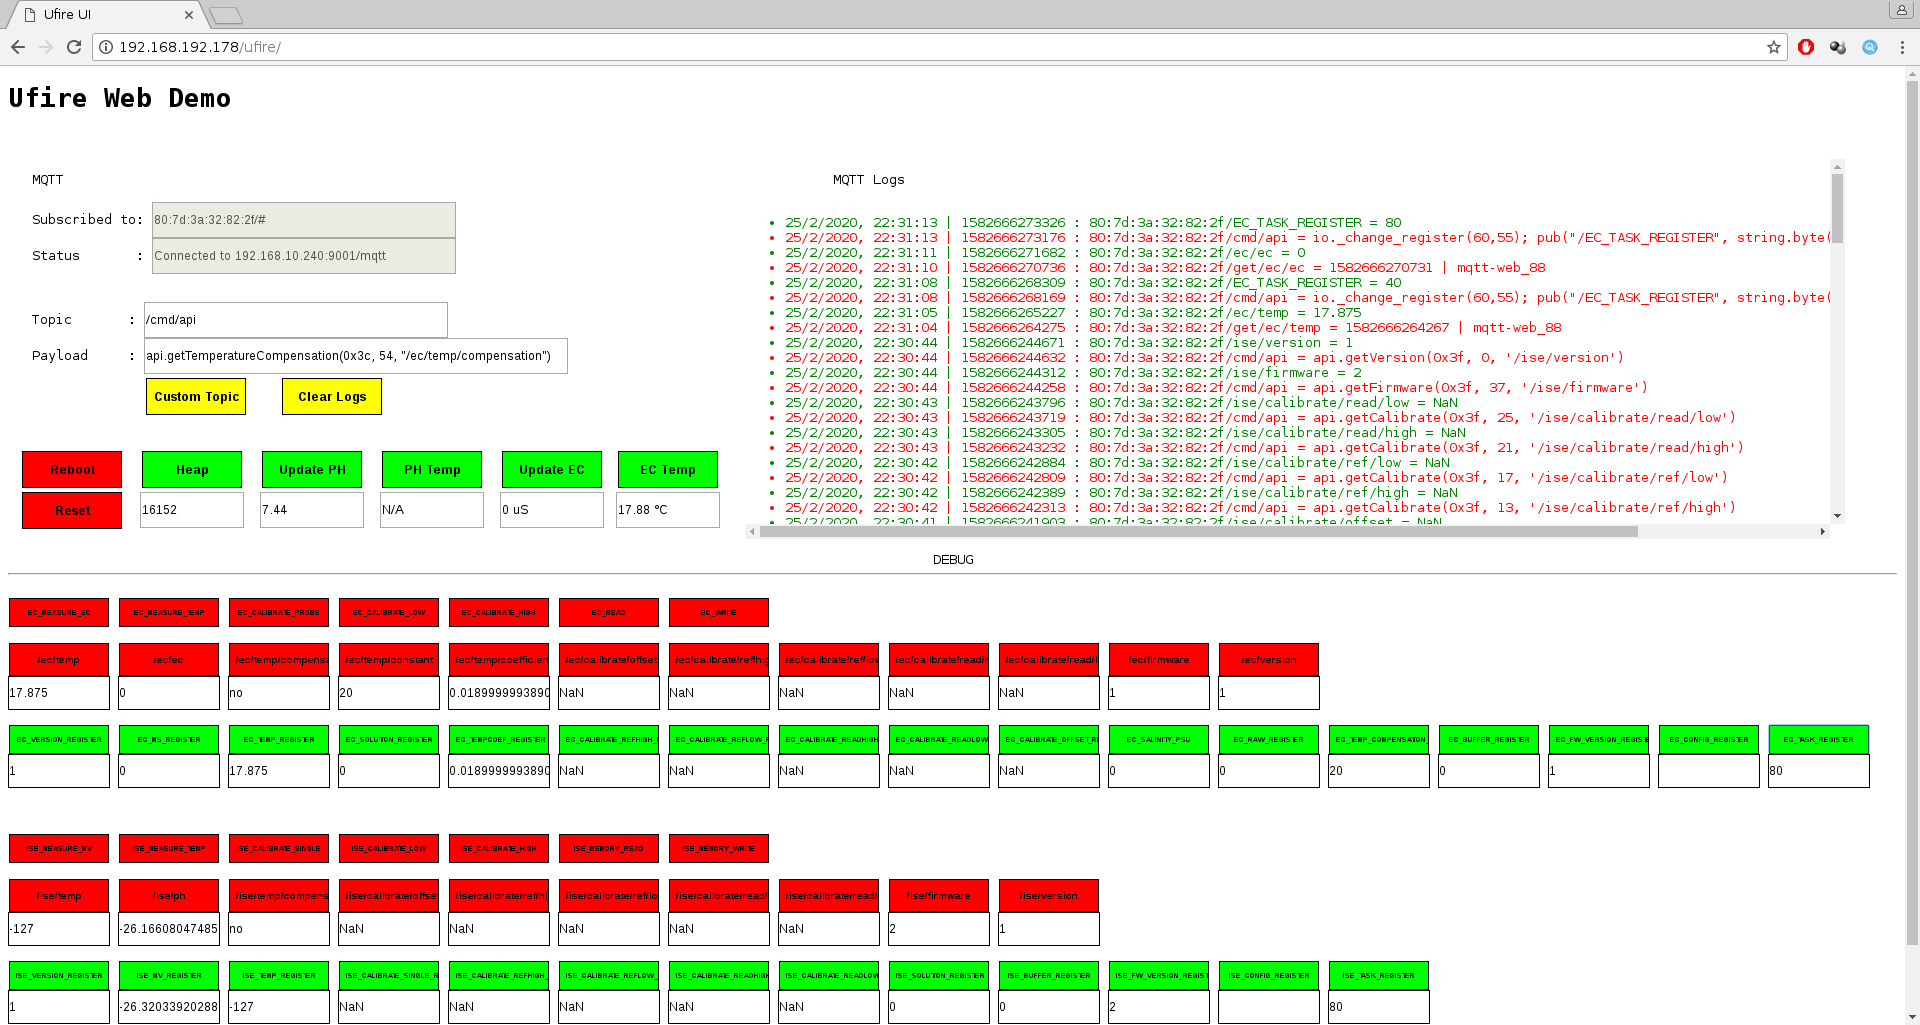
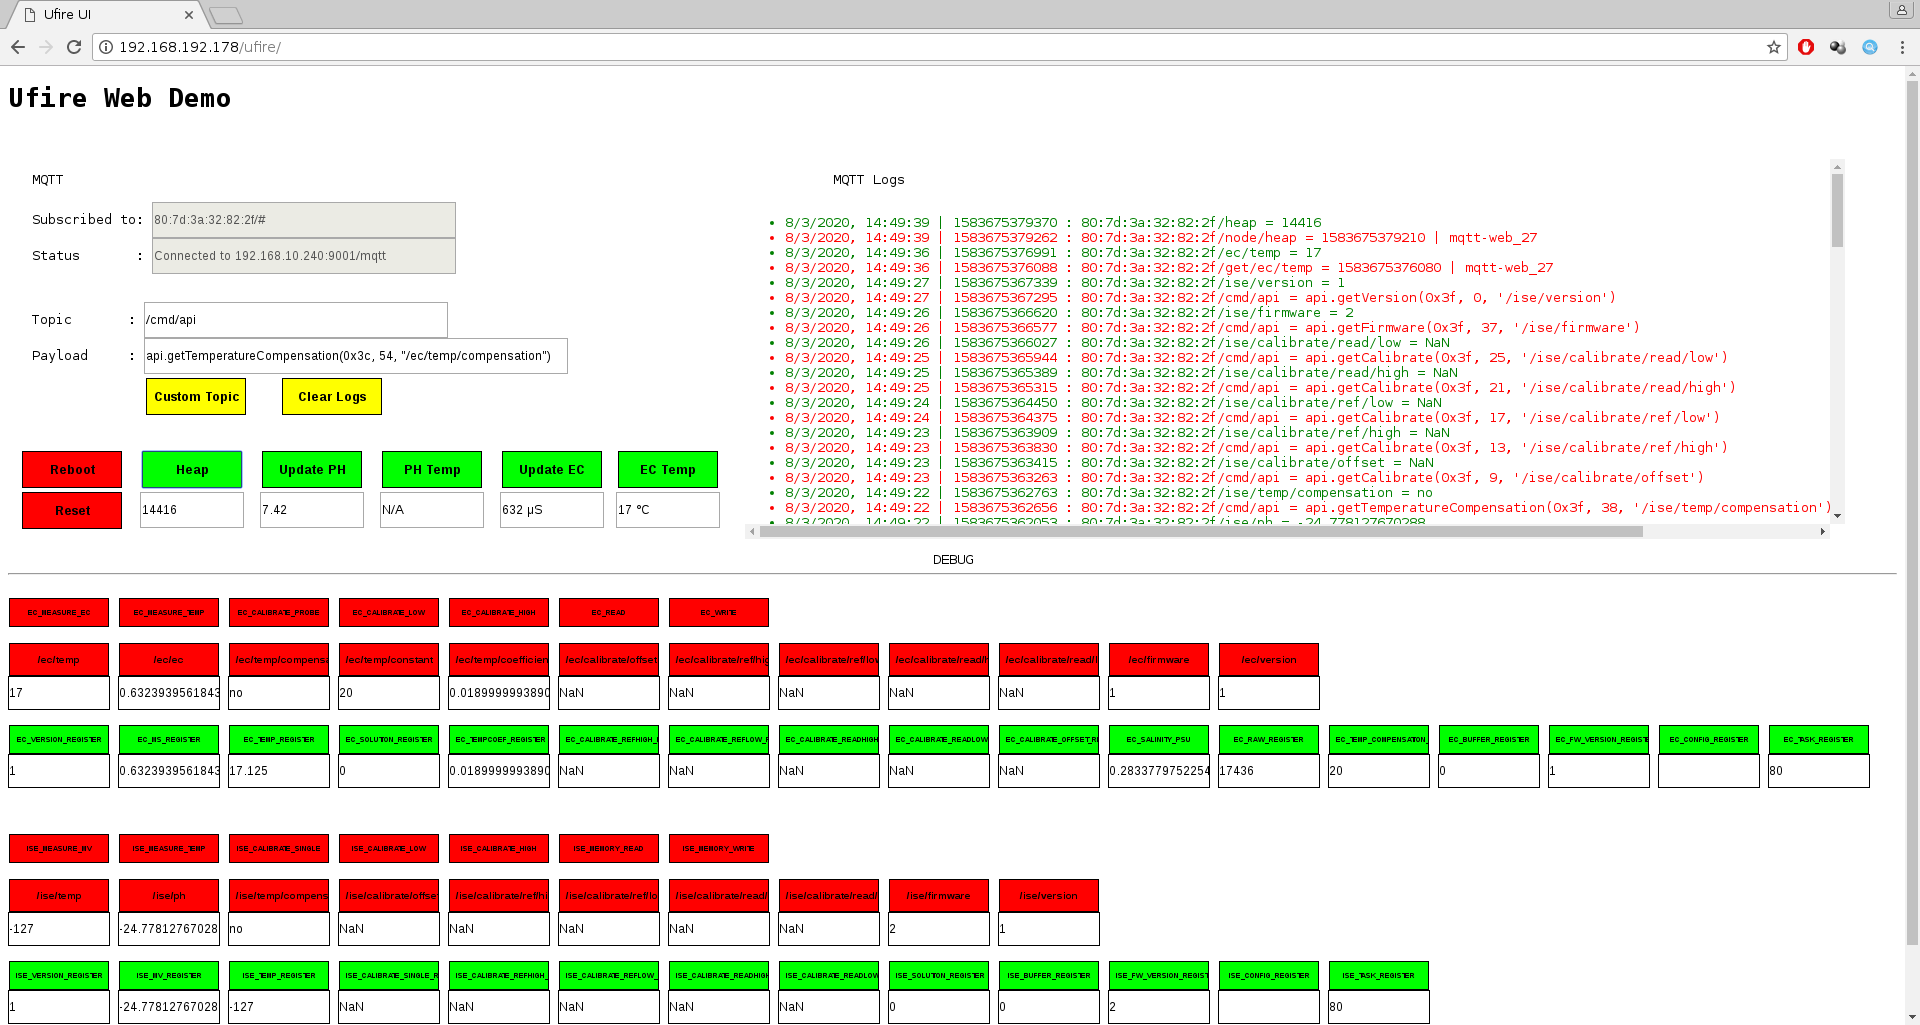
websocketsdemo ec in μs/cm

diff --git a/websockets-demo/index.html b/websockets-demo/index.html
@@ -100,7 +100,10 @@
 			$("#ph_temp").val(v);
                 break;
                 case "/ec/ec":
-			$("#ec").val(payload + " uS");
+			var num = Math.round(payload*1000);
+			// num = payload*1000;
+			// num = Math.round((num + Number.EPSILON) * 100) / 100;			
+			$("#ec").val(num + " μS");
                 break;
                 case "/ec/temp":
 			var v = payload == -127 ? "N/A" : (Math.round( payload * 100 ) / 100 + " °C")
